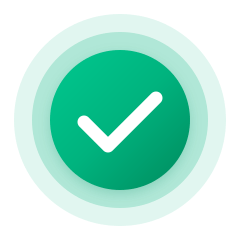
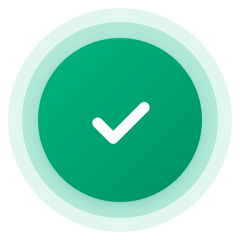
feat: synchronize receipt email checkmark with website, set sender name to Juragan Token Indonesia, add /docs guide, and add floating WhatsApp button

diff --git a/src/lib/receipt-email.ts b/src/lib/receipt-email.ts
@@ -75,7 +75,7 @@ export async function sendReceiptEmail(payload: SendReceiptPayload): Promise<Sen
 
   const gmailUser = process.env.GMAIL_USER?.trim();
   const gmailPass = process.env.GMAIL_APP_PASSWORD?.trim();
-  const fromName  = "Qris Payment Gateway";
+  const fromName  = process.env.GMAIL_FROM_NAME?.trim() || "Juragan Token Indonesia";
 
   const isConfigured = Boolean(
     gmailUser &&
@@ -152,15 +152,15 @@ export async function sendReceiptEmail(payload: SendReceiptPayload): Promise<Sen
           <tr>
             <td class="eb" style="padding:30px 26px 24px;">
 
-              <!-- Authentic Fintech Success Badge (Anti-Broken, Crisp, No Attachment Download) -->
+              <!-- Authentic Fintech Success Badge (Identik 100% PaymentSuccessMark Website) -->
               <table role="presentation" cellspacing="0" cellpadding="0" border="0" align="center" style="margin:0 auto 18px;">
                 <tr>
-                  <td align="center" valign="middle" style="width:78px;height:78px;border-radius:50%;background:#00b37e;background:linear-gradient(135deg,#00b37e 0%,#009366 100%);text-align:center;box-shadow:0 10px 26px rgba(0,179,126,0.36);padding:0;">
+                  <td align="center" valign="middle" style="padding:0;text-align:center;">
                     <img src="${badgeUrl}"
-                         width="78"
-                         height="78"
-                         alt="✓"
-                         style="display:block;width:78px;height:78px;max-width:78px;border:0;outline:none;border-radius:50%;margin:0 auto;color:#ffffff;font-size:38px;font-weight:bold;line-height:78px;text-align:center;" />
+                         width="104"
+                         height="104"
+                         alt="✓ Pembayaran Berhasil"
+                         style="display:block;width:104px;height:104px;max-width:104px;border:0;outline:none;margin:0 auto;text-align:center;" />
                   </td>
                 </tr>
               </table>
@@ -237,6 +237,25 @@ export async function sendReceiptEmail(payload: SendReceiptPayload): Promise<Sen
                 </tr>
               </table>
 
+              <!-- ─── Panduan Integrasi Cepat (/docs) ─── -->
+              <table role="presentation" width="100%" cellspacing="0" cellpadding="0" border="0"
+                     style="background-color:#eff6ff;border:1.5px solid #bfdbfe;border-radius:12px;margin-bottom:16px;">
+                <tr>
+                  <td style="padding:15px 18px;">
+                    <div style="font-size:13px;font-weight:800;color:#0a2540;margin-bottom:4px;">
+                      &#128218; Panduan Cara Pakai Kunci API (/docs)
+                    </div>
+                    <div style="font-size:12px;color:#475569;line-height:1.5;margin-bottom:12px;">
+                      Lihat contoh kode Python, Node.js, cURL, serta petunjuk konfigurasi di Cursor IDE, Claude Code CLI, Windsurf &amp; Continue:
+                    </div>
+                    <a href="${webOrigin}/docs" target="_blank"
+                       style="display:inline-block;background:#0a58ca;color:#ffffff;text-decoration:none;font-size:12px;font-weight:700;padding:9px 18px;border-radius:8px;box-shadow:0 2px 6px rgba(10,88,202,0.22);">
+                      Buka Dokumentasi Integrasi (/docs) &rarr;
+                    </a>
+                  </td>
+                </tr>
+              </table>
+
               <!-- ─── Tips Keamanan ─── -->
               <table role="presentation" width="100%" cellspacing="0" cellpadding="0" border="0"
                      style="background-color:#fffbeb;border:1px solid #fde68a;border-radius:10px;margin-bottom:22px;">
@@ -257,11 +276,13 @@ export async function sendReceiptEmail(payload: SendReceiptPayload): Promise<Sen
 
               <!-- ─── Footer ─── -->
               <div style="text-align:center;font-size:12px;color:#94a3b8;line-height:1.75;border-top:1px solid #f1f5f9;padding-top:18px;">
-                <div style="color:#64748b;font-weight:500;margin-bottom:4px;">Terima kasih telah menggunakan layanan kami.</div>
+                <div style="color:#64748b;font-weight:500;margin-bottom:6px;">Terima kasih telah menggunakan layanan Juragan Token Indonesia.</div>
                 <div>
-                  <a href="https://wa.me/${adminWaRaw}" target="_blank" style="color:#1d4ed8;font-weight:600;text-decoration:none;">WhatsApp Admin (${adminWaFormatted})</a>
+                  <a href="${webOrigin}/docs" target="_blank" style="color:#0a58ca;font-weight:700;text-decoration:none;">Panduan Integrasi (/docs)</a>
                   &nbsp;&bull;&nbsp;
-                  <a href="${officialWeb}" target="_blank" style="color:#1d4ed8;font-weight:600;text-decoration:none;">api.tokotokenai.com</a>
+                  <a href="https://wa.me/${adminWaRaw}" target="_blank" style="color:#16a34a;font-weight:700;text-decoration:none;">WhatsApp Admin (${adminWaFormatted})</a>
+                  &nbsp;&bull;&nbsp;
+                  <a href="${webOrigin}" target="_blank" style="color:#0a58ca;font-weight:700;text-decoration:none;">Website Toko</a>
                 </div>
               </div>
 

diff --git a/public/email-preview.html b/public/email-preview.html
@@ -134,6 +134,25 @@
                 </tr>
               </table>
 
+              <!-- ─── Panduan Integrasi Cepat (/docs) ─── -->
+              <table role="presentation" width="100%" cellspacing="0" cellpadding="0" border="0"
+                     style="background-color:#eff6ff;border:1.5px solid #bfdbfe;border-radius:12px;margin-bottom:16px;">
+                <tr>
+                  <td style="padding:15px 18px;">
+                    <div style="font-size:13px;font-weight:800;color:#0a2540;margin-bottom:4px;">
+                      &#128218; Panduan Cara Pakai Kunci API (/docs)
+                    </div>
+                    <div style="font-size:12px;color:#475569;line-height:1.5;margin-bottom:12px;">
+                      Lihat contoh kode Python, Node.js, cURL, serta petunjuk konfigurasi di Cursor IDE, Claude Code CLI, Windsurf &amp; Continue:
+                    </div>
+                    <a href="https://juragan-token-web-retail-git-main-whyzenn07s-projects.vercel.app/docs" target="_blank"
+                       style="display:inline-block;background:#0a58ca;color:#ffffff;text-decoration:none;font-size:12px;font-weight:700;padding:9px 18px;border-radius:8px;box-shadow:0 2px 6px rgba(10,88,202,0.22);">
+                      Buka Dokumentasi Integrasi (/docs) &rarr;
+                    </a>
+                  </td>
+                </tr>
+              </table>
+
               <!-- ─── Tips Keamanan ─── -->
               <table role="presentation" width="100%" cellspacing="0" cellpadding="0" border="0"
                      style="background-color:#fffbeb;border:1px solid #fde68a;border-radius:10px;margin-bottom:22px;">
@@ -154,11 +173,13 @@
 
               <!-- ─── Footer ─── -->
               <div style="text-align:center;font-size:12px;color:#94a3b8;line-height:1.75;border-top:1px solid #f1f5f9;padding-top:18px;">
-                <div style="color:#64748b;font-weight:500;margin-bottom:4px;">Terima kasih telah menggunakan layanan kami.</div>
+                <div style="color:#64748b;font-weight:500;margin-bottom:6px;">Terima kasih telah menggunakan layanan Juragan Token Indonesia.</div>
                 <div>
-                  <a href="https://wa.me/6281226983990" target="_blank" style="color:#1d4ed8;font-weight:600;text-decoration:none;">WhatsApp Admin</a>
+                  <a href="https://juragan-token-web-retail-git-main-whyzenn07s-projects.vercel.app/docs" target="_blank" style="color:#0a58ca;font-weight:700;text-decoration:none;">Panduan Integrasi (/docs)</a>
                   &nbsp;&bull;&nbsp;
-                  <a href="https://api.tokotokenai.com/" target="_blank" style="color:#1d4ed8;font-weight:600;text-decoration:none;">api.tokotokenai.com</a>
+                  <a href="https://wa.me/6281226983990" target="_blank" style="color:#16a34a;font-weight:700;text-decoration:none;">WhatsApp Admin (+62 812-2698-3990)</a>
+                  &nbsp;&bull;&nbsp;
+                  <a href="https://juragan-token-web-retail-git-main-whyzenn07s-projects.vercel.app" target="_blank" style="color:#0a58ca;font-weight:700;text-decoration:none;">Website Toko</a>
                 </div>
               </div>
 

diff --git a/src/app/globals.css b/src/app/globals.css
@@ -10266,3 +10266,116 @@ footer {
     grid-template-columns: 1fr !important;
   }
 }
+
+/* ========================================================================= */
+/* Floating WhatsApp Help / Consultation Widget                              */
+/* ========================================================================= */
+.floating-wa-container {
+  position: fixed;
+  bottom: 24px;
+  right: 24px;
+  z-index: 9999;
+  display: flex;
+  align-items: center;
+  justify-content: center;
+  pointer-events: auto;
+}
+
+.floating-wa-btn {
+  position: relative;
+  display: inline-flex;
+  align-items: center;
+  gap: 10px;
+  background: linear-gradient(135deg, #25D366 0%, #128C7E 100%);
+  color: #ffffff !important;
+  text-decoration: none !important;
+  padding: 11px 18px 11px 15px;
+  border-radius: 9999px;
+  box-shadow: 0 10px 26px rgba(37, 211, 102, 0.42), 0 4px 12px rgba(18, 140, 126, 0.28);
+  font-family: inherit;
+  font-size: 13.5px;
+  font-weight: 750;
+  letter-spacing: -0.2px;
+  transition: all 0.22s cubic-bezier(0.16, 1, 0.3, 1);
+  cursor: pointer;
+  user-select: none;
+  -webkit-tap-highlight-color: transparent;
+}
+
+.floating-wa-btn:hover {
+  transform: translateY(-2px) scale(1.04);
+  box-shadow: 0 14px 34px rgba(37, 211, 102, 0.52), 0 6px 16px rgba(18, 140, 126, 0.35);
+  color: #ffffff !important;
+}
+
+.floating-wa-btn:active {
+  transform: translateY(0) scale(0.97);
+}
+
+.floating-wa-ripple {
+  position: absolute;
+  top: 50%;
+  left: 50%;
+  width: 100%;
+  height: 100%;
+  border-radius: 9999px;
+  background: rgba(37, 211, 102, 0.35);
+  pointer-events: none;
+  transform: translate(-50%, -50%) scale(1);
+  animation: wa-pulse 2.2s infinite cubic-bezier(0.25, 0.46, 0.45, 0.94);
+  z-index: -1;
+}
+
+@keyframes wa-pulse {
+  0% {
+    transform: translate(-50%, -50%) scale(1);
+    opacity: 0.8;
+  }
+  70% {
+    transform: translate(-50%, -50%) scale(1.35);
+    opacity: 0;
+  }
+  100% {
+    transform: translate(-50%, -50%) scale(1.4);
+    opacity: 0;
+  }
+}
+
+.floating-wa-icon {
+  display: block;
+  flex-shrink: 0;
+  filter: drop-shadow(0 2px 4px rgba(0, 0, 0, 0.15));
+}
+
+.floating-wa-label {
+  display: inline-block;
+  white-space: nowrap;
+  line-height: 1;
+}
+
+/* Responsif Mobile (<640px): Bulatan kompak 50px agar tidak menutupi konten checkout */
+@media (max-width: 640px) {
+  .floating-wa-container {
+    bottom: 18px;
+    right: 16px;
+  }
+  .floating-wa-btn {
+    width: 50px;
+    height: 50px;
+    padding: 0;
+    justify-content: center;
+    border-radius: 50%;
+    box-shadow: 0 8px 22px rgba(37, 211, 102, 0.45);
+  }
+  .floating-wa-label {
+    display: none;
+  }
+  .floating-wa-icon {
+    width: 26px;
+    height: 26px;
+  }
+  .floating-wa-ripple {
+    border-radius: 50%;
+  }
+}
+

diff --git a/src/components/ui/FloatingWhatsApp.tsx b/src/components/ui/FloatingWhatsApp.tsx
@@ -1,0 +1,45 @@
+"use client";
+
+import { useState } from "react";
+
+export function FloatingWhatsApp() {
+  const [isHovered, setIsHovered] = useState(false);
+  const adminPhone = (process.env.NEXT_PUBLIC_WHATSAPP_NUMBER || "6281226983990").replace(/[^0-9]/g, "");
+  const defaultText = encodeURIComponent(
+    "Halo Admin Juragan Token! 👋 Saya ingin konsultasi mengenai pembelian kredit API AI."
+  );
+  const waUrl = `https://wa.me/${adminPhone}?text=${defaultText}`;
+
+  return (
+    <aside
+      aria-label="Kontak Bantuan WhatsApp"
+      className="floating-wa-container"
+      onMouseEnter={() => setIsHovered(true)}
+      onMouseLeave={() => setIsHovered(false)}
+    >
+      <a
+        href={waUrl}
+        target="_blank"
+        rel="noopener noreferrer"
+        className="floating-wa-btn"
+        aria-label="Konsultasi via WhatsApp Admin"
+        title="Konsultasi Langsung via WhatsApp Admin"
+      >
+        <span className="floating-wa-ripple" aria-hidden="true" />
+        <svg
+          viewBox="0 0 24 24"
+          width="24"
+          height="24"
+          fill="#ffffff"
+          className="floating-wa-icon"
+          aria-hidden="true"
+        >
+          <path d="M17.472 14.382c-.297-.149-1.758-.867-2.03-.967-.273-.099-.471-.148-.67.15-.197.297-.767.966-.94 1.164-.173.199-.347.223-.644.075-.297-.15-1.255-.463-2.39-1.475-.883-.788-1.48-1.761-1.653-2.059-.173-.297-.018-.458.13-.606.134-.133.298-.347.446-.52.149-.174.198-.298.298-.497.099-.198.05-.371-.025-.52-.075-.149-.669-1.612-.916-2.207-.242-.579-.487-.5-.669-.51-.173-.008-.371-.01-.57-.01-.198 0-.52.074-.792.372-.272.297-1.04 1.016-1.04 2.479 0 1.462 1.065 2.875 1.213 3.074.149.198 2.096 3.2 5.077 4.487.709.306 1.262.489 1.694.625.712.227 1.36.195 1.871.118.571-.085 1.758-.719 2.006-1.413.248-.694.248-1.289.173-1.413-.074-.124-.272-.198-.57-.347m-5.421 7.403h-.004a9.87 9.87 0 01-5.031-1.378l-.361-.214-3.741.982.998-3.648-.235-.374a9.86 9.86 0 01-1.51-5.26c.001-5.45 4.436-9.884 9.888-9.884 2.64 0 5.122 1.03 6.988 2.898a9.825 9.825 0 012.893 6.994c-.003 5.45-4.437 9.884-9.885 9.884m8.413-18.297A11.815 11.815 0 0012.05 0C5.495 0 .16 5.335.157 11.892c0 2.096.547 4.142 1.588 5.945L.057 24l6.305-1.654a11.882 11.882 0 005.683 1.448h.005c6.554 0 11.89-5.335 11.893-11.893a11.821 11.821 0 00-3.48-8.413Z"/>
+        </svg>
+        <span className={`floating-wa-label ${isHovered ? "expanded" : ""}`}>
+          Konsultasi Admin
+        </span>
+      </a>
+    </aside>
+  );
+}

diff --git a/src/app/layout.tsx b/src/app/layout.tsx
@@ -71,10 +71,15 @@ export const metadata: Metadata = {
   },
 };
 
+import { FloatingWhatsApp } from "@/components/ui/FloatingWhatsApp";
+
 export default function RootLayout({ children }: { children: React.ReactNode }) {
   return (
     <html lang="id">
-      <body>{children}</body>
+      <body>
+        {children}
+        <FloatingWhatsApp />
+      </body>
     </html>
   );
 }

diff --git a/src/components/ui/index.ts b/src/components/ui/index.ts
@@ -2,3 +2,4 @@ export * from "./Icon";
 export * from "./ProviderLogo";
 export * from "./RegionBadge";
 export * from "./PaymentSuccessMark";
+export * from "./FloatingWhatsApp";
